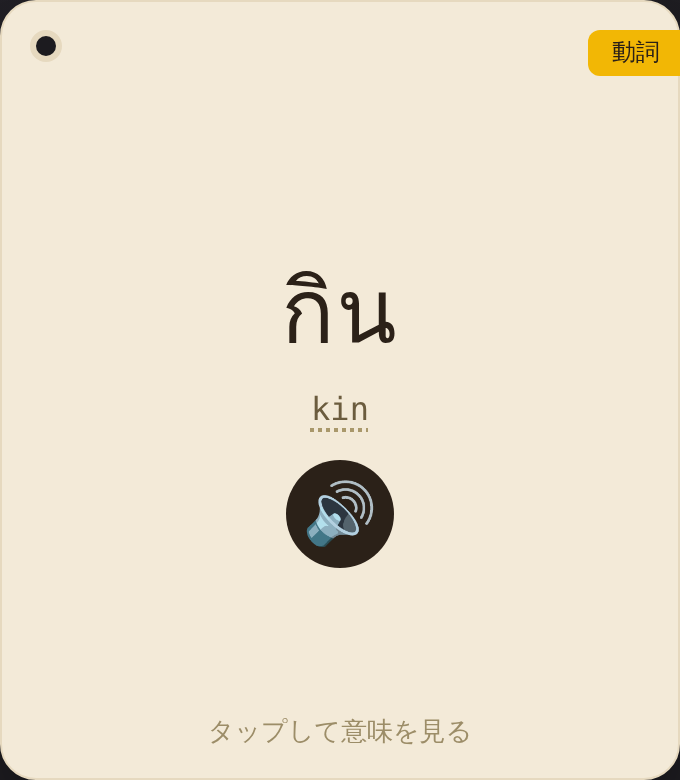
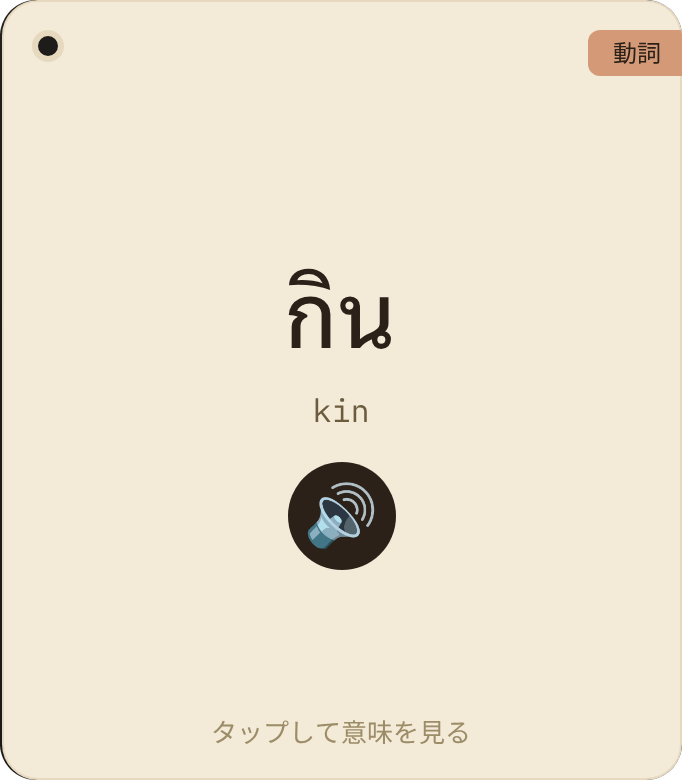
LP: アプリと同じ配色に変更、便利機能を全部紹介、テストを学習の流れに追加
- 配色を墨×砂+テラコッタへ(黄色を廃止)、ヒーローのカード画像を現行アプリの画面に差し替え
- 一番上のボタンを「無料で試す」にしてアプリへ直接つなぐ
- 便利機能を13項目すべて最初から表示(開閉式をやめる)
- 使い方を「学ぶ→覚える→試す→使う」の4段階に
- 料金の税込表記を3プランで統一、FAQの無料範囲の説明を料金表と揃える
- CLAUDE.md: マネタイズ方針を最新化(緊急は有料)、決済決定後のLP作業を記録

Claude-Session: https://claude.ai/code/session_01943EUCWJXEw4xvu6FgakSF

diff --git a/lp.html b/lp.html
@@ -10,17 +10,17 @@
 <style>
 :root{
   --cream:#f3ead8;
-  --cream-bg:#faf5ea;
-  --dark:#2b2118;
-  --dark2:#1c1610;
-  --gold:#f2b705;
-  --gold-deep:#c99404;
-  --muted:#9c8d68;
-  --muted-dark:#6b5c3e;
+  --cream-bg:#f7f3ea;
+  --dark:#262523;
+  --dark2:#1d1c1b;
+  --gold:#d49a78;
+  --gold-deep:#a8623f;
+  --muted:#9a948a;
+  --muted-dark:#5f5a52;
   --line:#e6d9bf;
-  --line-dark:#3a3223;
-  --green:#4c9a6a;
-  --blue:#4a7cc4;
+  --line-dark:#3b3935;
+  --green:#5f8f6b;
+  --blue:#9db2c4;
 }
 *{box-sizing:border-box;margin:0;padding:0;}
 html{scroll-behavior:smooth;}
@@ -58,7 +58,7 @@ header{position:sticky;top:0;z-index:50;background:var(--cream-bg);border-bottom
 
 /* hero */
 .hero{padding:40px 0 40px;text-align:center;}
-.hero-card-img{width:72%;max-width:300px;margin:0 auto 24px;border-radius:26px;box-shadow:0 18px 40px -14px rgba(43,33,24,.4);}
+.hero-card-img{width:72%;max-width:300px;margin:0 auto 24px;border-radius:5.3%/4.6%;box-shadow:0 18px 40px -14px rgba(29,28,27,.4);}
 .hero h1{font-size:28px;line-height:1.4;margin:0 0 18px;}
 .hero h1 .hl{color:var(--gold-deep);}
 .hero p.lead{font-size:15px;color:var(--muted-dark);margin-bottom:22px;}
@@ -77,7 +77,7 @@ header{position:sticky;top:0;z-index:50;background:var(--cream-bg);border-bottom
 .problem-list li{display:flex;gap:10px;padding:14px 0;border-bottom:1px solid var(--line-dark);font-size:14px;}
 .problem-list li:last-child{border-bottom:none;}
 .problem-list .mark{color:var(--gold);flex-shrink:0;}
-.solution-box{background:rgba(242,183,5,.12);border:1px solid var(--gold);border-radius:16px;padding:20px;margin-top:24px;}
+.solution-box{background:rgba(212,154,120,.13);border:1px solid var(--gold);border-radius:16px;padding:20px;margin-top:24px;}
 .solution-box p{color:var(--cream);margin:0;font-weight:500;}
 .solution-box .accent{font-weight:900;}
 
@@ -90,7 +90,7 @@ header{position:sticky;top:0;z-index:50;background:var(--cream-bg);border-bottom
 /* compare vs yubisashi */
 .vs-grid{display:flex;flex-direction:column;gap:14px;}
 .vs-card{border:1px solid var(--line);border-radius:16px;padding:20px;background:#fff;}
-.vs-card.highlight{border:2px solid var(--gold-deep);background:linear-gradient(180deg,#fffdf5,#fff);}
+.vs-card.highlight{border:2px solid var(--gold-deep);background:linear-gradient(180deg,#fbf6f1,#fff);}
 .vs-card .vs-tag{font-size:11px;font-weight:700;color:var(--muted);margin-bottom:6px;}
 .vs-card.highlight .vs-tag{color:var(--gold-deep);}
 .vs-card h3{font-size:17px;margin-bottom:6px;}
@@ -108,8 +108,8 @@ header{position:sticky;top:0;z-index:50;background:var(--cream-bg);border-bottom
 .live-demo{margin:24px 0 8px;}
 .live-demo-controls{display:flex;justify-content:center;gap:8px;margin-bottom:18px;flex-wrap:wrap;}
 .live-demo .pill{background:var(--dark2);border:1px solid var(--line-dark);color:var(--cream);border-radius:999px;padding:7px 14px;font-size:13px;font-family:'IBM Plex Mono','Noto Sans Mono',monospace;cursor:pointer;}
-.live-demo .pill-gender[data-gender="male"]{background:#1a3a5c;color:#90caf9;border-color:#2979bb;}
-.live-demo .pill-gender[data-gender="female"]{background:#5c1a3a;color:#f48fb1;border-color:#bb2963;}
+.live-demo .pill-gender[data-gender="male"]{background:#2c3a46;color:#a9bfd0;border-color:#5a7388;}
+.live-demo .pill-gender[data-gender="female"]{background:#46303a;color:#d4a9b6;border-color:#8c5d6e;}
 .live-demo .pill-dir{font-weight:800;min-width:72px;text-align:center;}
 .flip-wrap{width:100%;max-width:300px;height:380px;perspective:1400px;position:relative;margin:0 auto;touch-action:pan-y;}
 .card-inner{position:relative;width:100%;height:100%;transition:transform .45s cubic-bezier(.4,.2,.2,1);transform-style:preserve-3d;cursor:pointer;}
@@ -135,7 +135,7 @@ header{position:sticky;top:0;z-index:50;background:var(--cream-bg);border-bottom
 .face .learn-btn{border:1.5px solid var(--dark);background:transparent;color:var(--dark);border-radius:999px;padding:11px 18px;font-size:14px;font-weight:700;font-family:'Zen Maru Gothic',sans-serif;cursor:pointer;}
 .face .learn-btn.done{background:var(--dark);color:var(--cream);}
 .face .fav-btn{width:40px;height:40px;border-radius:50%;border:1.5px solid var(--dark);background:transparent;color:var(--dark);font-size:18px;cursor:pointer;display:flex;align-items:center;justify-content:center;flex-shrink:0;padding:0;}
-.face .fav-btn.on{background:var(--gold);border-color:var(--gold);}
+.face .fav-btn.on{background:#c9bda6;border-color:#c9bda6;}
 .live-demo-hint{text-align:center;font-size:12.5px;color:var(--muted);margin-top:16px;}
 
 /* steps */
@@ -146,16 +146,12 @@ header{position:sticky;top:0;z-index:50;background:var(--cream-bg);border-bottom
 .step-body h3{font-size:15px;margin-bottom:3px;}
 .step-body p{font-size:13px;margin:0;}
 
-/* accordion */
-.acc{border:1px solid var(--line);border-radius:14px;margin-bottom:10px;overflow:hidden;background:#fff;color:var(--dark);}
-.acc-head{display:flex;align-items:center;justify-content:space-between;gap:12px;padding:16px 18px;cursor:pointer;user-select:none;}
-.acc-head .ttl{display:flex;align-items:center;gap:10px;font-weight:700;font-size:14.5px;}
-.acc-head .num{font-size:20px;}
-.acc-head .chev{transition:transform .25s;color:var(--muted);flex-shrink:0;}
-.acc.open .acc-head .chev{transform:rotate(180deg);}
-.acc-body{max-height:0;overflow:hidden;transition:max-height .3s ease;}
-.acc.open .acc-body{max-height:400px;}
-.acc-body-inner{padding:0 18px 18px 46px;font-size:13px;color:var(--muted-dark);}
+/* 便利機能(全部を最初から表示) */
+.feat-grid{display:grid;grid-template-columns:1fr;gap:10px;margin-top:20px;}
+.feat-card{display:flex;gap:12px;align-items:flex-start;border:1px solid var(--line-dark);border-radius:14px;padding:14px 16px;background:var(--dark2);}
+.feat-card .f-icon{flex-shrink:0;width:38px;height:38px;border-radius:10px;background:rgba(212,154,120,.16);display:flex;align-items:center;justify-content:center;font-size:18px;color:var(--gold);font-weight:900;}
+.feat-card h3{font-size:14.5px;color:var(--cream);margin-bottom:3px;}
+.feat-card p{font-size:12.5px;margin:0;line-height:1.65;color:var(--cream);opacity:.78;}
 
 /* pricing table */
 .compare-table{width:100%;border-collapse:collapse;font-size:12.5px;margin:20px 0;background:#fff;border-radius:14px;overflow:hidden;border:1px solid var(--line);}
@@ -169,7 +165,7 @@ header{position:sticky;top:0;z-index:50;background:var(--cream-bg);border-bottom
 /* price cards */
 .price-grid{display:flex;flex-direction:column;gap:14px;margin-top:22px;}
 .price-card{border:1px solid var(--line-dark);border-radius:18px;padding:22px;background:var(--dark2);position:relative;}
-.price-card.best{border:2px solid var(--gold);background:linear-gradient(180deg,#241b10,#1c1610);}
+.price-card.best{border:2px solid var(--gold);background:linear-gradient(180deg,#2b2623,#1d1c1b);}
 .price-card .badge{position:absolute;top:-11px;right:18px;background:var(--gold);color:var(--dark);font-size:11px;font-weight:900;padding:4px 12px;border-radius:20px;}
 .price-card .plan-name{font-size:13px;color:var(--muted);font-weight:700;margin-bottom:6px;}
 .price-card .plan-price{font-size:28px;font-weight:900;color:var(--cream);}
@@ -220,6 +216,7 @@ footer .copyright{color:var(--muted-dark);}
   .vs-grid .vs-card{flex:1;}
   .price-grid{flex-direction:row;}
   .price-grid .price-card{flex:1;}
+  .feat-grid{grid-template-columns:1fr 1fr;}
   .learn-grid{grid-template-columns:repeat(3,1fr);}
   .flip-wrap{max-width:340px;height:420px;}
 }
@@ -243,9 +240,9 @@ footer .copyright{color:var(--muted-dark);}
     <div class="eyebrow">Thai Pocket Cards</div>
     <h1>タイ語を、<br>もっと「使える」ように。</h1>
     <p class="lead">単語も。会話も。文法も。<br>必要なところから、カードをめくって学ぶ。</p>
-    <div class="trial-badge">🔧 現在アプリは公開準備中です</div>
+    <div class="trial-badge">🔧 有料プランは現在準備中です</div>
     <div class="cta-row">
-      <a class="btn-primary" href="#price">Thai Pocaをはじめる</a>
+      <a class="btn-primary" href="app.html">無料で試す</a>
     </div>
     <div class="hero-note">※アプリのインストールは不要。ブラウザから開いて、ホーム画面に追加するだけですぐ使えます。</div>
     <div class="stat-row">
@@ -338,7 +335,7 @@ footer .copyright{color:var(--muted-dark);}
 <section class="section" style="background:#fff;">
   <div class="wrap">
     <div class="eyebrow">使い方はシンプル</div>
-    <h2>「学ぶ」→「覚える」→「使う」</h2>
+    <h2>「学ぶ」→「覚える」→<br>「試す」→「使う」</h2>
     <div class="steps">
       <div class="step">
         <div class="step-num">1</div>
@@ -346,10 +343,14 @@ footer .copyright{color:var(--muted-dark);}
       </div>
       <div class="step">
         <div class="step-num">2</div>
-        <div class="step-body"><h3>覚える</h3><p>発音を聞いて声に出し、お気に入り・学習リストで復習。覚えた単語はワンタップで記録できます。</p></div>
+        <div class="step-body"><h3>覚える</h3><p>発音を聞いて声に出す。覚えた単語はワンタップで記録し、気になる単語はお気に入りに入れてリストで見返す。</p></div>
       </div>
       <div class="step">
         <div class="step-num">3</div>
+        <div class="step-body"><h3>試す</h3><p>4択テストで10問ずつ力試し。間違えた単語は自動で「苦手」リストに入るので、苦手だけを集めて克服できます。</p></div>
+      </div>
+      <div class="step">
+        <div class="step-num">4</div>
         <div class="step-body"><h3>使う</h3><p>覚えたフレーズを実際の会話で使ってみる。「通じた」という実感が、次の学びにつながります。</p></div>
       </div>
     </div>
@@ -361,7 +362,8 @@ footer .copyright{color:var(--muted-dark);}
   <div class="wrap">
     <div class="eyebrow">便利機能</div>
     <h2>学びを支える、<br>細かい工夫。</h2>
-    <div id="accList"></div>
+    <p style="font-size:13px;">毎日使うからこそ、あると助かる機能をひととおり揃えています。</p>
+    <div class="feat-grid" id="featList"></div>
   </div>
 </section>
 
@@ -398,14 +400,14 @@ footer .copyright{color:var(--muted-dark);}
     <div class="price-grid">
       <div class="price-card">
         <div class="plan-name">月額プラン</div>
-        <div class="plan-price">¥300<span class="unit">/月</span></div>
+        <div class="plan-price">¥300<span class="unit">/月(税込)</span></div>
         <div class="plan-note">まずは気軽に試したい方に</div>
         <div class="price-cta">準備中</div>
       </div>
       <div class="price-card best">
         <div class="badge">お得</div>
         <div class="plan-name">年間プラン</div>
-        <div class="plan-price">¥3,000<span class="unit">/年</span></div>
+        <div class="plan-price">¥3,000<span class="unit">/年(税込)</span></div>
         <div class="plan-note">月換算 250円(月額より2か月分お得)。じっくり続けたい方に</div>
         <div class="price-cta">準備中</div>
       </div>
@@ -498,33 +500,37 @@ footer .copyright{color:var(--muted-dark);}
 
 <script>
 const FEATURES = [
-  {icon:'♂♀',title:'男性語尾/女性語尾の切り替え',body:'ครับ(khráp)/ค่ะ(khâ)など、男性・女性で異なる語尾をワンタップで切り替えられます。自分の話し方に合わせて学べます。'},
-  {icon:'🔄',title:'タイ語⇔日本語の方向切り替え',body:'タイ語を見て意味を思い出す練習も、日本語からタイ語を組み立てる練習も、同じカードで両方できます。'},
-  {icon:'📡',title:'オフライン対応',body:'PWA(Progressive Web App)技術により、電波が届かない場所でも一度開いたページはそのまま使い続けられます。'},
+  {icon:'🔎',title:'ひらがな・ローマ字でも検索',body:'タイ文字が打てなくても大丈夫。日本語の意味、ひらがなの読み、ローマ字のどれからでも単語を探せます。'},
+  {icon:'🔊',title:'発音の読み上げ・ゆっくり再生',body:'単語も例文も会話フレーズも、タップで音声を再生。聞き取りにくい時は、ゆっくり読み上げることもできます。'},
+  {icon:'♂♀',title:'男性語尾/女性語尾の切り替え',body:'ครับ(khráp)/ค่ะ(khâ)など、男性・女性で異なる語尾をワンタップで切り替え。自分の話し方に合わせて学べます。'},
+  {icon:'🔄',title:'タイ語⇔日本語の方向切り替え',body:'タイ語を見て意味を思い出す練習も、日本語からタイ語を思い出す練習も、同じカードで両方できます。'},
+  {icon:'📝',title:'単語カードは例文つき',body:'単語だけでなく、実際の使い方が分かる例文をカードの裏に載せています。例文も読み方(ローマ字)つきです。'},
+  {icon:'🧩',title:'会話フレーズの単語解説',body:'会話フレーズを単語ごとに分けて、それぞれの意味を確認できます。丸暗記ではなく、組み立て方が分かります。'},
+  {icon:'⭐',title:'お気に入り',body:'気になる単語やフレーズに星をつけて、リストでまとめて見返せます。'},
+  {icon:'✅',title:'「覚えた」記録と未学習だけ表示',body:'覚えた単語はワンタップで記録。まだ覚えていないものだけを表示して、効率よく進められます。'},
+  {icon:'🔀',title:'シャッフル',body:'カードの順番をランダムに入れ替え。並び順で覚えてしまうのを防げます。'},
+  {icon:'🎯',title:'苦手な単語を自動で記録',body:'テストで間違えた単語は、自動で「苦手」リストへ。2回続けて正解すると外れます。苦手だけを集めたテストもできます。'},
+  {icon:'👂',title:'聞いて選ぶテスト・金額の聞き取り',body:'音声を聞いて答える問題に対応。数字のテストでは、買い物で必要になる金額の聞き取りを練習できます。'},
+  {icon:'💾',title:'学習記録のバックアップ',body:'学習記録をエクスポート/インポートできます。機種変更の時も、覚えた単語やお気に入りを引き継げます。'},
+  {icon:'📡',title:'オフライン対応',body:'一度開いておけば、電波が届かない場所でもそのまま使い続けられます。'},
 ];
 
 const FAQS = [
   {q:'アプリのインストールは必要ですか？',a:'いいえ、不要です。ブラウザからページを開いて「ホーム画面に追加」するだけで、通常のアプリと同じように使えます。'},
-  {q:'無料版と有料版、何が違いますか？',a:'無料版は単語の初心者タブと、日常会話・レストランの会話シーンのみ利用できます。有料版では単語・会話フレーズ・文法など、すべての機能が解放されます。'},
+  {q:'無料版と有料版、何が違いますか？',a:'無料版は、単語の初心者レベルと、会話の日常会話・レストランが対象です(4択テスト・お気に入り・学習リストも、この範囲で使えます)。有料版では、全レベルの単語・全シーンの会話・文法・数字など、すべてが解放されます。'},
   {q:'iPhoneとAndroid、両方で使えますか？',a:'はい、どちらの端末でも同じように利用できます。'},
   {q:'指さしタイとどちらを使えばいいですか？',a:'旅行中にすぐ言葉を伝えたい場合は指さしタイ、タイ語そのものを覚えて話せるようになりたい場合はThai Pocaがおすすめです。併用もできます。'},
   {q:'タイ文字が読めなくても大丈夫ですか？',a:'はい。すべてのタイ語表記にローマ字(Paiboon+方式)が併記されているので、タイ文字が読めない状態からでも学習を始められます。'},
 ];
 
-function renderAcc(){
-  const el = document.getElementById('accList');
-  el.innerHTML = FEATURES.map((f,i)=>`
-    <div class="acc" id="acc-${i}">
-      <div class="acc-head" onclick="toggleAcc(${i})">
-        <div class="ttl"><span class="num">${f.icon}</span> ${f.title}</div>
-        <span class="chev">▼</span>
-      </div>
-      <div class="acc-body"><div class="acc-body-inner">${f.body}</div></div>
+function renderFeatures(){
+  const el = document.getElementById('featList');
+  el.innerHTML = FEATURES.map(f=>`
+    <div class="feat-card">
+      <div class="f-icon">${f.icon}</div>
+      <div><h3>${f.title}</h3><p>${f.body}</p></div>
     </div>
   `).join('');
-}
-function toggleAcc(i){
-  document.getElementById('acc-'+i).classList.toggle('open');
 }
 function renderFaq(){
   const el = document.getElementById('faqList');
@@ -631,10 +637,8 @@ const demoDirPill = document.getElementById('demoDirPill');
 if(demoDirPill) demoDirPill.onclick = () => { demoState.dir = demoState.dir==='th-jp'?'jp-th':'th-jp'; demoState.flipped=false; renderDemo(); };
 renderDemo();
 
-renderAcc();
+renderFeatures();
 renderFaq();
-// open first feature by default
-document.getElementById('acc-0').classList.add('open');
 </script>
 </body>
 </html>

diff --git a/CLAUDE.md b/CLAUDE.md
@@ -58,10 +58,17 @@ console.log(Math.max(...nums), [...new Set(nums)].sort((a,b)=>a-b));
 - **`ID_MERGE` に載っている消したIDは再利用しない**。新規IDは「DATA内とID_MERGE内を含めた最大番号+1」から振る（名詞は n1005 まで使用＝4桁あり）
 - 残っている同つづり9組（คน/เงิน/จาน/ชุด/ฟ้า/เส้น/วัด/พิเศษ/ชาม）は品詞・意味が違う正当なもの
 
-## マネタイズ方針（2026-07-26時点、指差し単語帳の出来次第で変更の可能性あり）
-- **無料版**: 会話は日常会話・レストラン・緊急のみ／単語はlevel5のみ／タイ文字タブは全部／リスト機能はフル機能（対象は無料範囲のみ）
-- **有料版**: 会話のホテル・観光・交通を追加解放／単語level4以下も解放／文法全部解放／リストの対象が全語彙・全会話に拡張
+## マネタイズ方針（2026-11-16時点）
+- **無料版**: 単語は初心者(level5)のみ／会話は日常会話・レストランのみ（**緊急は無料に含めない**）／4択テストは単語の初心者のみ／お気に入り・リストは無料範囲のみ対象
+- **有料版**: 単語の全レベル／会話の全シーン（観光・ホテル・交通・緊急）／文法すべて／数字タブ／テストの中級者+と数字／お気に入り・リストが全対象
+- **価格**: 月額300円／年間3,000円／買い切り4,000円（すべて税込表記）
+- 無料範囲はそのまま開放し、有料部分をタップしたら案内を出す方針。**アプリ側の出し分け（🔒・案内）は未実装**で、現状は全機能が誰でも使える
 - 決済はStripe予定。REIWA SOBA VIPと同じSupabase + Cloudflare Workers構成をバックエンドに流用予定（未着手）
+
+## LP（lp.html）
+- 配色はアプリと同じ墨×砂＋テラコッタ（`--gold` という変数名のまま値はテラコッタ `#d49a78`）。マリーゴールドの黄色は使わない
+- 一番上のボタンは「無料で試す」→ `app.html`。`lp_assets/card_hero.png` は実アプリのカードを撮ったもの（アプリの見た目を変えたら撮り直す）
+- **TODO（決済の仕組みが決まったら必ず）**: FAQに「解約はいつでもできるか」「機種変更したらどうなるか」「支払い方法（Stripe）」を追加し、料金カードの「準備中」を購入ボタンに差し替え、冒頭の「有料プランは現在準備中です」を外す。特定商取引法の表記ページも用意する
 
 ## 姉妹プロジェクト
 - 指差し単語帳（yubisashi-thai）: 観光客向け。リポジトリ `likklemore1126/yubisashi-thai`。PWA化（manifest.json/Service Worker）が別チャットで進行中の可能性あり
